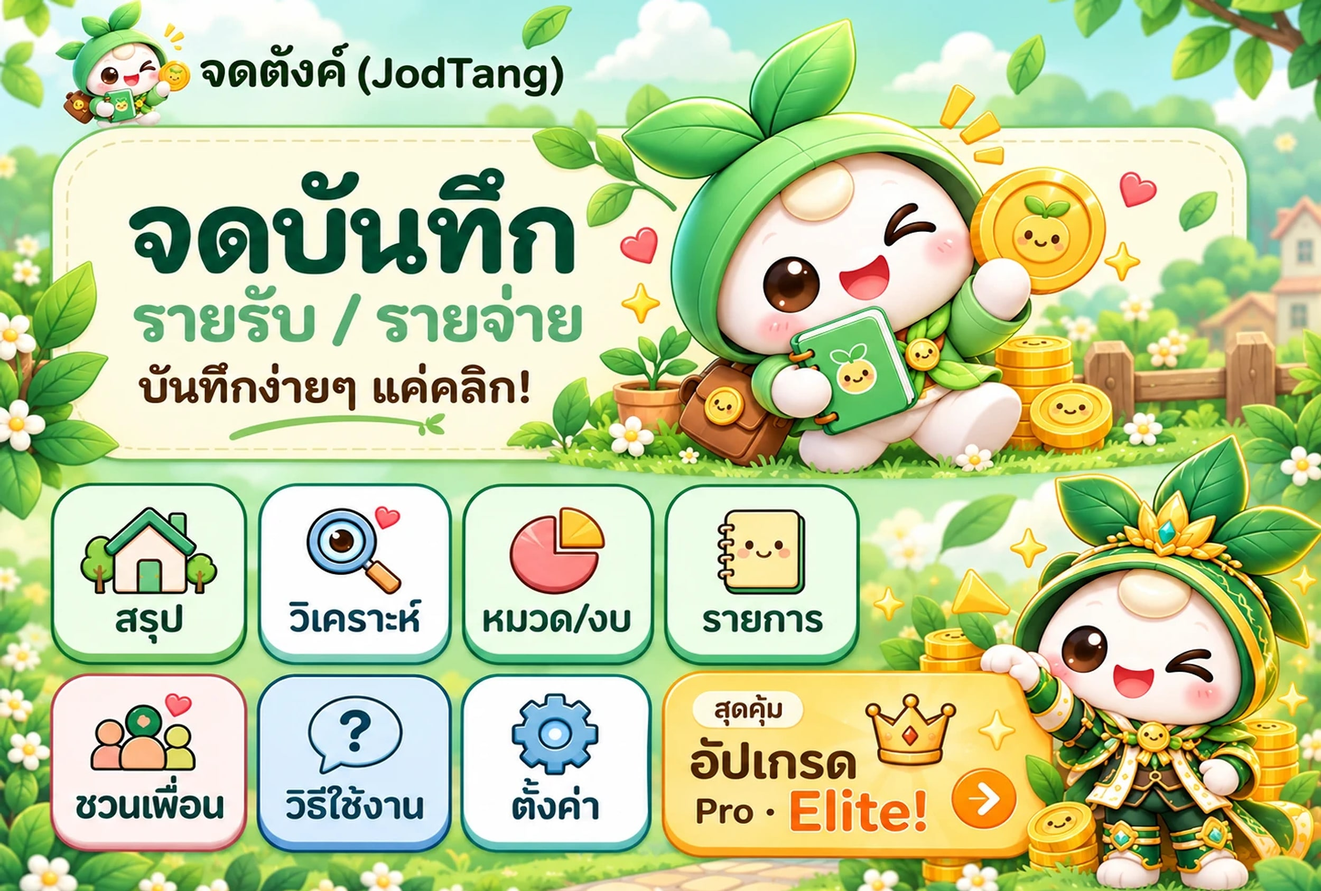
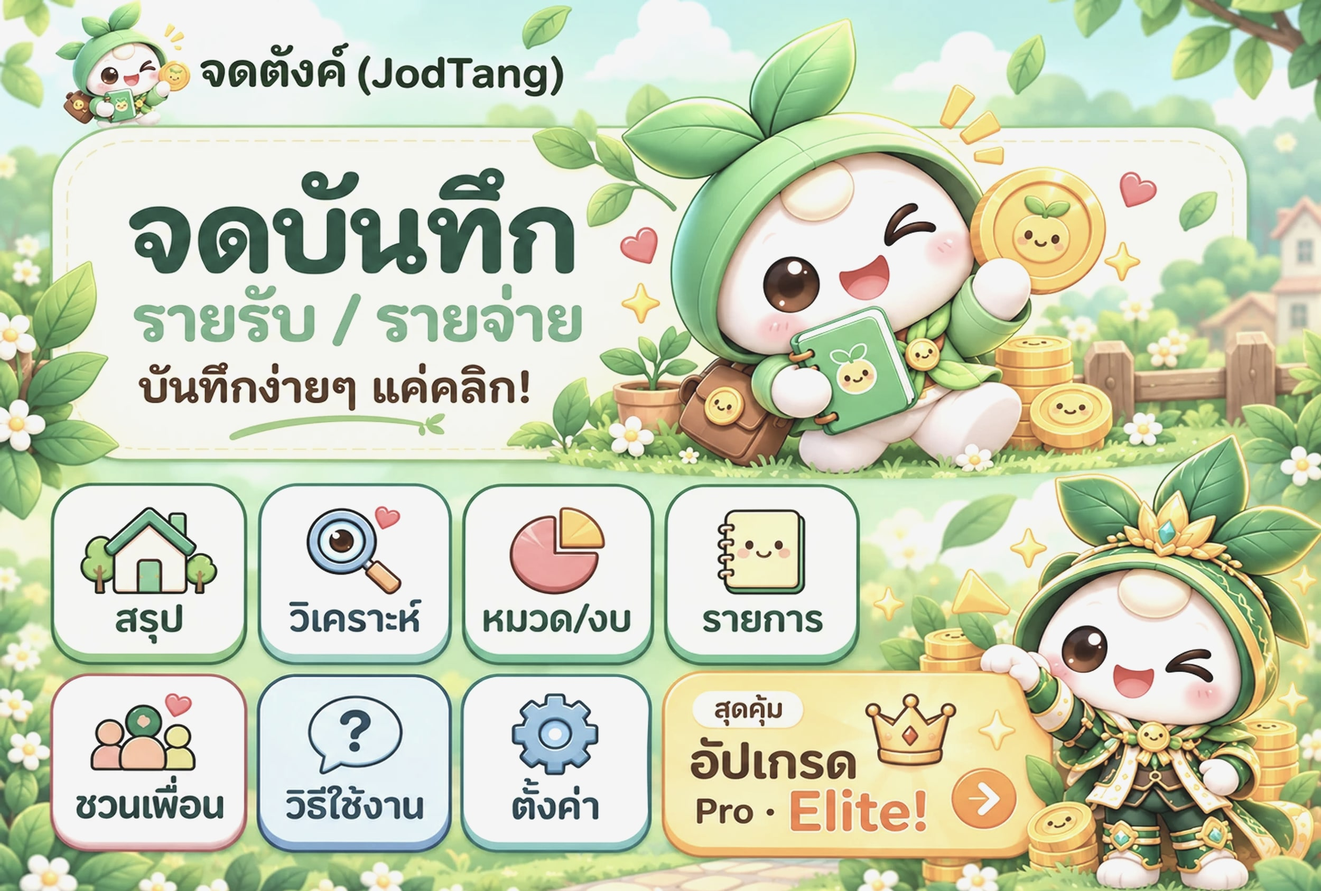
feat(richmenu): more pastel colours for the menu picture

diff --git a/scripts/create-richmenu.ts b/scripts/create-richmenu.ts
@@ -14,6 +14,7 @@ import {
   ART_CROP,
   ART_FILE,
   ART_WIDTH,
+  PASTEL,
   RICH_MENU_HEIGHT,
   RICH_MENU_WIDTH,
   TILES,
@@ -49,6 +50,8 @@ async function renderImage(): Promise<Buffer> {
   const jpg = await sharp(resolve(ART_FILE))
     .extract({ left: 0, top: ART_CROP.top, width: ART_WIDTH, height: ART_CROP.height })
     .resize(RICH_MENU_WIDTH, RICH_MENU_HEIGHT, { fit: "fill", kernel: "lanczos3" })
+    .modulate({ saturation: PASTEL.saturation, brightness: PASTEL.brightness })
+    .linear(PASTEL.contrast, PASTEL.lift)
     .sharpen({ sigma: 0.6 })
     .jpeg({ quality: 88, mozjpeg: true })
     .toBuffer();

diff --git a/scripts/richmenu-design.ts b/scripts/richmenu-design.ts
@@ -25,6 +25,12 @@ export const ART_HEIGHT = 1083;
  */
 export const ART_CROP = { top: 20, height: 1031 } as const;
 
+/**
+ * The painting is toned down to pastel: less colour, a little lighter, shadows lifted. Still dark
+ * enough for the labels to read (the next step, "soft", started to wash out the "Elite!" text).
+ */
+export const PASTEL = { saturation: 0.7, brightness: 1.06, contrast: 0.86, lift: 26 } as const;
+
 export interface Bounds {
   x: number;
   y: number;
